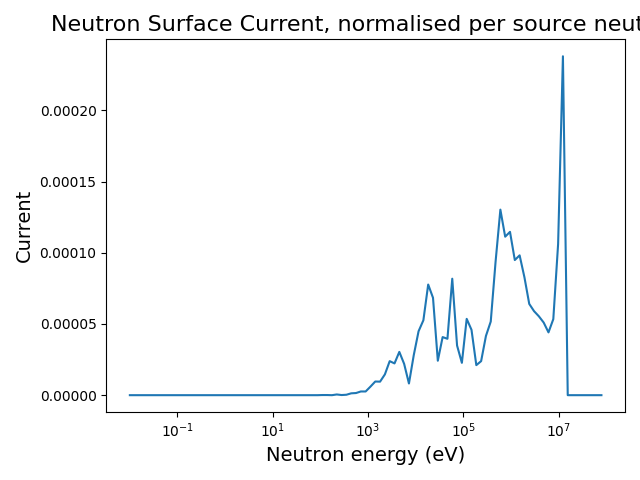
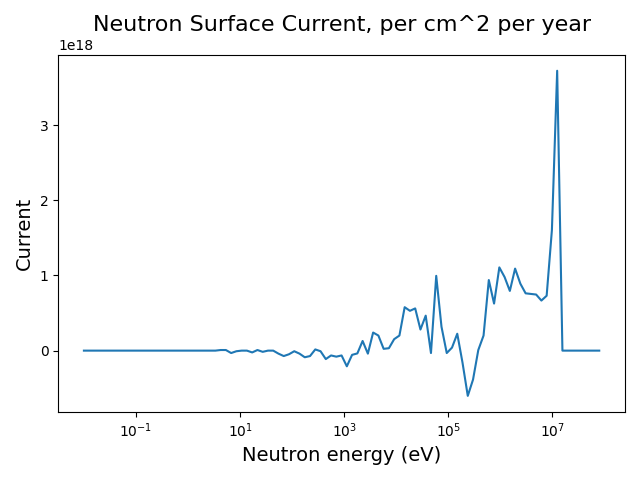
Added TF coil to geometry
-Updated tape_compositions to include stainless stell, now can call a function to return the average composition of the winding packs
- Added another gap layer and magnet coil layer to the basic geometry, with the magnet layer treated as solid (not a great assumption)
- Changed the surface filter function to be able to select which surface to look at

diff --git a/Code/workspace/src/magmirror.py b/Code/workspace/src/magmirror.py
@@ -4,6 +4,7 @@ import pandas as pd
 import numpy as np
 import openmc_plasma_source
 import os
+from tape_compositions import get_winding_material
 
 # Set results directory to workspace/results
 results_dir = os.path.abspath(os.path.join(os.path.dirname(__file__), '..', 'results'))
@@ -13,6 +14,8 @@ os.makedirs(results_dir, exist_ok=True)
 # Define cylinder length
 cylinder_length = 100.0
 
+mag_thickness = 40
+
 layers_thicknesses = [
     ("source + gap", 126), 
     ("first wall", 0.5),
@@ -20,7 +23,9 @@ layers_thicknesses = [
     ("channel", 21), #design point chosen for chrysopoeia paper
     ("structural2", 3), 
     ("blanket", 50), #very rough estimate from design point of paper
-    ("blanketouter", 3)
+    ("blanketouter", 3),
+    ("magnet gap", 60), #based on almost nothing
+    ("tf coil", mag_thickness) #based on ARC paper
 ]
 
 outer_rad = sum([thickness for (name, thickness) in layers_thicknesses])
@@ -122,29 +127,27 @@ eurofer97_steel.add_element("Fe", remaining_percent, 'wo')
 eurofer97_steel.temperature = 900.0
 
 
-# Axial boundaries (Z-planes)
+# Axial boundaries for overall simulation(Z-planes)
 z_min = openmc.ZPlane(z0=-cylinder_length/2, boundary_type='reflective')
 z_max = openmc.ZPlane(z0=cylinder_length/2, boundary_type='reflective')
+
+# Axial boundaries for TF coils
+cable_side_length = 4 #40mm square cables from ARC paper
+
+coil_width = 12*cable_side_length #12 cables (12x10 coil array)
+
+TF_z_min = openmc.ZPlane(z0=-coil_width/2) #TF coil situated at z=0
+TF_z_max = openmc.ZPlane(z0=coil_width/2)
 
 # Create cylinders for each radius
 cylinders = []
 for i, (name, radius) in enumerate(radial_layers):
-    if i != len(radial_layers)-1:
+    if i != len(radial_layers)-1: #not last layer
         cylinders.append(openmc.ZCylinder(r=radius))
     else:
         cylinders.append(openmc.ZCylinder(r=radius, boundary_type='vacuum')) #last cylinder has vacuum boundary, all others are transmissive
 
-# Create cells for each layer
-cells = []
-for i, (name, radius) in enumerate(radial_layers):
-    if i == 0:
-        # First layer (Plasma) - from center to first radius
-        region = -cylinders[i] & +z_min & -z_max
-    else:
-        # Subsequent layers - between current cylinder and previous cylinder
-        region = +cylinders[i-1] & -cylinders[i] & +z_min & -z_max
-    
-    cell = openmc.Cell(name=name, region=region)
+def cell_fill(cell):
     # Create cell with appropriate material based on layer type
     if "gap" in name:
         cell.fill = None #no material, vacuum
@@ -158,18 +161,46 @@ for i, (name, radius) in enumerate(radial_layers):
         cell.fill = blanket_mat
     elif name=="blanketouter":
         cell.fill = eurofer97_steel
+    elif name=='tf coil':
+        cell.fill = get_winding_material()
     else:
         raise RuntimeError(f"Unknown material for layer '{name}'")
+    return cell
+
+# Create cells for each layer
+cells = []
+for i, (name, radius) in enumerate(radial_layers):
+    if i == 0:
+        # First layer (Plasma) - from center to first radius
+        region = -cylinders[i] & +z_min & -z_max
+    # elif name=='tf coil':
+    #     #tf coil only extends a short width, not the whole simulation
+    #     region = +cylinders[i-1] & -cylinders[i] & +TF_z_min & -TF_z_max
+    #     lowervacregion = +cylinders[i-1] & -cylinders[i] & +z_min & -TF_z_min
+    #     uppervacregion = +cylinders[i-1] & -cylinders[i] & +TF_z_max & z_max
+    else:
+        # Subsequent layers - between current cylinder and previous cylinder
+        region = +cylinders[i-1] & -cylinders[i] & +z_min & -z_max
+    
+    cell = openmc.Cell(name=name, region=region)
+
+    cell_fill(cell)
     
     cells.append(cell)
+
+    # if name=="tf coil":
+    #     lowervaccell = openmc.Cell(name="lowervaccell", region=lowervacregion)
+    #     uppervaccell = openmc.Cell(name="uppervaccell", region=uppervacregion)
+    #     cells.append(lowervaccell)
+    #     cells.append(uppervaccell)
 
 # Create geometry
 geometry = openmc.Geometry(cells)
 
 # Create plots to visualize the radial structure
 # XY plot (radial view)
-plot_xy = geometry.plot(width=(2*outer_rad, 2*outer_rad), pixels=(1000, 1000), origin=(0, 0, 0), basis='xy')
-plot_xy.figure.savefig(os.path.join(results_dir, 'radial_build_xy.png'))
+# plot_xy = geometry.plot(width=(2*outer_rad, 2*outer_rad), pixels=(1000, 1000), origin=(0, 0, 0), basis='xy')
+# plot_xy.figure.savefig(os.path.join(results_dir, 'radial_build_xy.png'))
 
 # # XZ plot (longitudinal view)
 # plot_xz = geometry.plot(width=(500, 500), pixels=(1000, 1000), origin=(0, 0, 0), basis='xz')
@@ -201,14 +232,17 @@ major_r = 420 #cm, from paper design
 
 reactor_energy = reactor_power * 365.25 * 24 * 60 * 60 #reactor (thermal) energy in J in one year
 circum = 2*np.pi*major_r
-area = circum * cylinder_length
 slice_proportion = cylinder_length/circum #how much of full tokamak this slice represents, approx.
 slice_energy = reactor_energy * slice_proportion #energy in J generated by slice in 1 year
 e_per_fusion = 17.6 * 1.6e-13 #in J
 n_per_year_per_slice = slice_energy/e_per_fusion
-n_fluence_per_year = n_per_year_per_slice/area
+
+mag_r = outer_rad - mag_thickness
+mag_inner_area = mag_r * cylinder_length
+
+n_fluence_per_year = n_per_year_per_slice/mag_inner_area
 print(f"Neutrons produced per year (per {cylinder_length}cm slice): {n_per_year_per_slice}")
-print(f"Neutron fluence per year: {n_fluence_per_year} cm^-2")
+print(f"Neutron fluence per year at magnet surface: {n_fluence_per_year} cm^-2")
 n_per_year_file = os.path.join(results_dir, 'n_fluence_per_year.txt')
 with open(n_per_year_file, 'w') as output:
     output.write(str(n_fluence_per_year))
@@ -260,10 +294,10 @@ def volumetric_flux_tally(particle="neutron", name=None):
         Configured OpenMC mesh tally for the requested particle.
     """
     N = 360 # number of angular mesh components
-    rgrid = np.arange(0, outer_rad, 0.25)
-    #zgrid = np.arange(-cylinder_length/2, cylinder_length/2, cylinder_length)
+    rgrid = np.arange(0, outer_rad, 0.5)
+    #zgrid = np.linspace(-cylinder_length/2, cylinder_length/2, 10)
     zgrid = [-cylinder_length/2, cylinder_length/2]
-    phigrid = np.linspace(0, 2*np.pi, num=N+1)
+    phigrid = np.linspace(0, 2*np.pi, num=N)
 
 
     mesh = openmc.CylindricalMesh(rgrid, zgrid, phigrid)
@@ -281,7 +315,7 @@ def volumetric_flux_tally(particle="neutron", name=None):
     return mesh_tally
 
 
-def surface_particle_current_tally(particle="neutron", name=None):
+def surface_particle_current_tally(particle="neutron", name=None, layer=0):
     """
     Create an OpenMC Tally to measure particle current at the outer cylindrical surface
     across a range of energies.
@@ -308,7 +342,7 @@ def surface_particle_current_tally(particle="neutron", name=None):
       the surface in both directions.
     """
     
-    surface_filter = openmc.SurfaceFilter(bins=[cylinders[-1]]) # Filter for the vacuum boundary at the outermost radius
+    surface_filter = openmc.SurfaceFilter(bins=[cylinders[-(layer+1)]]) # Filter for the vacuum boundary at the outermost radius
     surface_filter.direction = 'both'  # could parameterize if you wish.
 
     # ParticleFilter for requested type (e.g., neutron or photon)
@@ -318,7 +352,7 @@ def surface_particle_current_tally(particle="neutron", name=None):
     e_filter = openmc.EnergyFilter(values=np.logspace(-2, 8, 100))
    
     if name is None:  # Use a descriptive default tally name if none is given
-        name = f"{particle.capitalize()} current at outer cylinder surface"
+        name = f"{particle.capitalize()} current at selected cylinder surface"
 
     # Create and configure the tally object
     surface_tally = openmc.Tally(name=name)
@@ -333,14 +367,14 @@ def surface_particle_current_tally(particle="neutron", name=None):
 tallies = openmc.Tallies()
 tallies.append(volumetric_flux_tally(particle="neutron")) # volumetric neutron flux tally
 tallies.append(volumetric_flux_tally(particle="photon"))  # volumetric photon flux tally
-tallies.append(surface_particle_current_tally(particle = "neutron"))  # surface neutron flux tally
-tallies.append(surface_particle_current_tally(particle = "photon"))   # surface photon flux tally
+tallies.append(surface_particle_current_tally(particle = "neutron", layer=1))  # magnet surface neutron flux tally
+tallies.append(surface_particle_current_tally(particle = "photon", layer=1))   # magnet surface photon flux tally
 
 settings = openmc.Settings()
 settings.photon_transport = True
 settings.source = [n_source]#, photon_source]
 settings.batches = 10
-settings.particles = 10000
+settings.particles = 200000
 settings.run_mode = 'fixed source'
 settings.output = {'path': results_dir}  # all output files now go to results_dir
 

diff --git a/Code/workspace/src/tape_compositions.py b/Code/workspace/src/tape_compositions.py
@@ -27,12 +27,12 @@ hastelloy_composition = [("Co", 0.025),
                          ("C", 0.0001), 
                          ("Cu", 0.005)] #wt%, all non-nickel fractions
 
-remaining_frac = 1-sum([wtfrac for (element, wtfrac) in hastelloy_composition])
+remaining_ni_frac = 1-sum([wtfrac for (element, wtfrac) in hastelloy_composition])
 
 hastelloy = openmc.Material(name='Hastelloy C276')
 for (element, wtfrac) in hastelloy_composition:
     hastelloy.add_element(element, wtfrac, percent_type = 'wo')
-hastelloy.add_element("Ni", remaining_frac, percent_type = 'wo') #fill with nickel
+hastelloy.add_element("Ni", remaining_ni_frac, percent_type = 'wo') #fill with nickel
 hastelloy.set_density('g/cm3', 8.89)
 
 #Copper
@@ -52,4 +52,29 @@ hts_tape = openmc.Material.mix_materials(
     percent_type='vo'
 )
 
-print(hts_tape)
+#stainless 316ln
+stainless_comp = [("C", 0.00017),
+                  ("Mn", 0.01),
+                  ("Ni", 0.12),
+                  ("Cr", 0.17),
+                  ("Mo", 0.025),
+                  ("S", 0.00015),
+                  ("Si", 0.005),
+                  ("P", 0.00022),
+                  ("N", 0.0013)]
+
+remaining_fe_frac = 1-sum(wtfrac for (element, wtfrac) in stainless_comp)
+stainless = openmc.Material(name='Stainless 316LN')
+for (element, wtfrac) in stainless_comp:
+    stainless.add_element(element, wtfrac, percent_type='wo')
+stainless.add_element("Fe", remaining_fe_frac, percent_type='wo')
+
+winding_pack = openmc.Material.mix_materials(
+    materials = [stainless, Cu, hts_tape],
+    fracs = [0.46, 0.46, 0.08], #roughly, from ARC paper
+    percent_type='vo'
+)
+
+def get_winding_material():
+    """Returns an openmc.Material object of the average composition of a TF coil winding pack according to ARC 2015"""
+    return winding_pack

diff --git a/Code/workspace/src/magmirrorresults.py b/Code/workspace/src/magmirrorresults.py
@@ -31,7 +31,7 @@ def plot_surface_current(particle="neutron", normalise = True):
     Exports a .png semilog figure of the surface current. 
     """
     particle_cap = particle.capitalize()
-    tally_name = f"{particle_cap} current at outer cylinder surface"
+    tally_name = f"{particle_cap} current at selected cylinder surface"
     try:
         surface_tally_results = results.get_tally(name=tally_name)
         resultsdf = surface_tally_results.get_pandas_dataframe()
@@ -60,7 +60,7 @@ def plot_surface_current(particle="neutron", normalise = True):
 
 def sum_surface_current(particle='neutron', normalise = True):
     """
-    Prints the total number of particles passing through the outer surface.
+    Prints the total number of particles passing through the selected surface.
     
     Parameters
     ---------
@@ -73,7 +73,7 @@ def sum_surface_current(particle='neutron', normalise = True):
         If False, multiplies result by the number of neutrons produced in the slice per year (calculated in magmirror).
     """
     particle_cap = particle.capitalize()
-    tally_name = f"{particle_cap} current at outer cylinder surface"
+    tally_name = f"{particle_cap} current at selected cylinder surface"
     try:
         surface_tally_results = results.get_tally(name=tally_name)
         resultsdf = surface_tally_results.get_pandas_dataframe()
